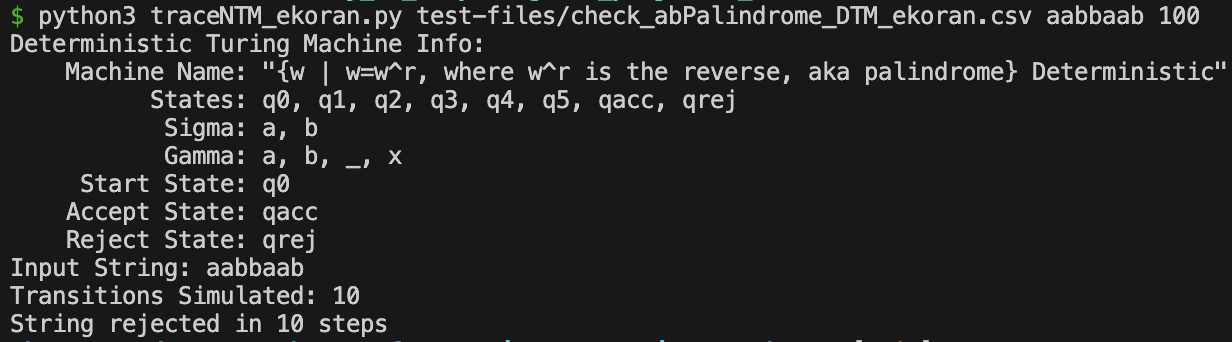
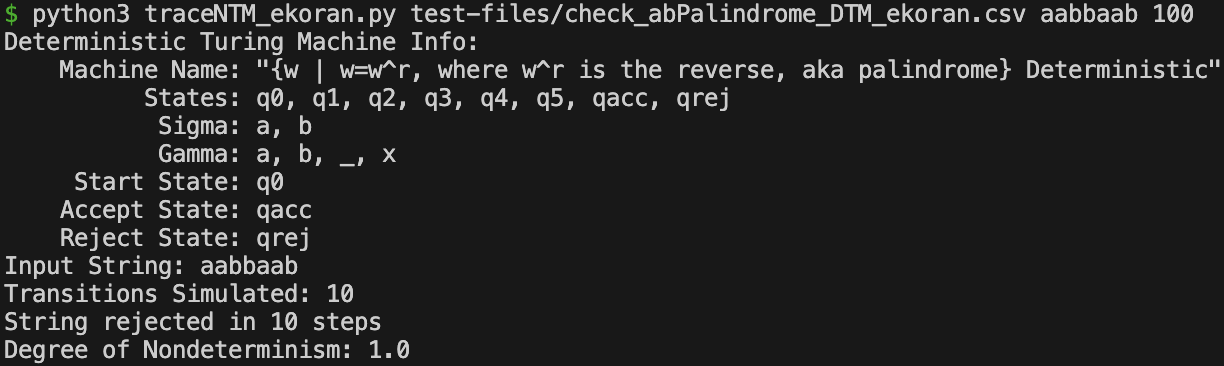
Reject output changes

diff --git a/traceNTM_ekoran.py b/traceNTM_ekoran.py
@@ -163,6 +163,9 @@ def turing_machine_BFS(TM, input, limit):
         print(f'String rejected in 1 step')
     else:
         print(f'String rejected in {len(tree)} steps')
+    
+    branches = sum([len(level) for level in tree])
+    print(f'Degree of Nondeterminism: {branches / len(tree)}')
     return tree
 
 
